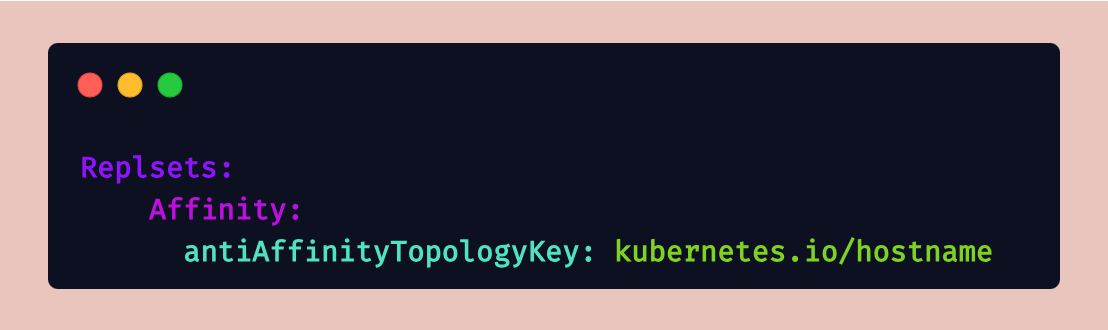
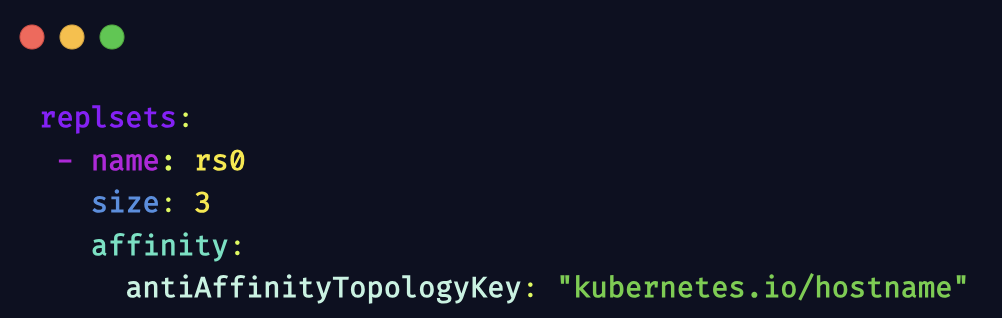
Fix: Change image of affinity in yaml file

diff --git a/content/blog/2023/2023-11-30-anti-affinity-in-kubernetes.md b/content/blog/2023/2023-11-30-anti-affinity-in-kubernetes.md
@@ -6,7 +6,7 @@ tags: ["kubernetes", "anti-affinity", "mongodb", "percona"]
 authors:
   - edith_puclla
 images:
-  - blog/2023/11/intro.png
+  - blog/2023/11/affinity-intro.png
 slug: anti-affinity-in-kubernetes
 ---
 
